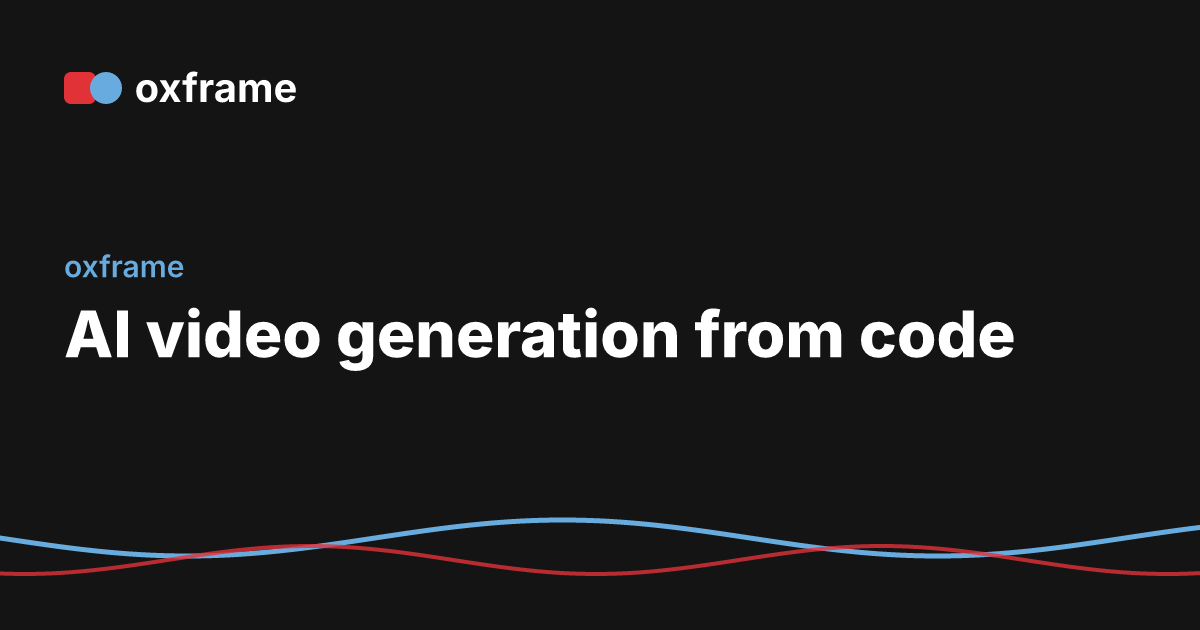
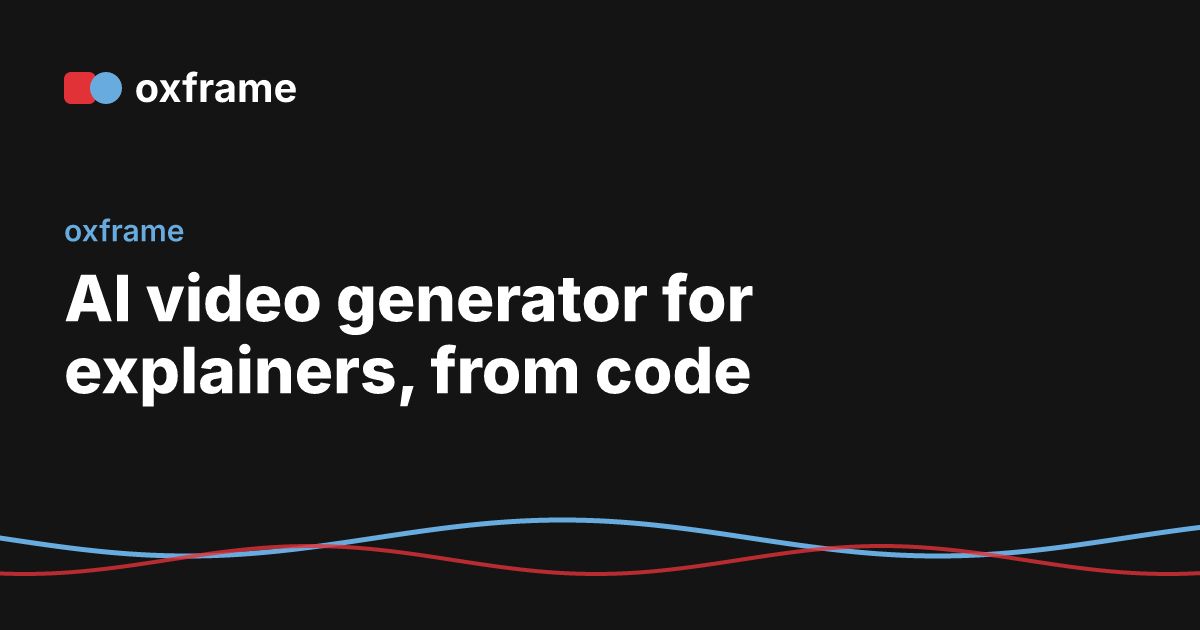
Rewrite /ai-video-from-code for people coming from video models
What the agent + oxframe loop is, how it differs from Sora/Veo-style
generation (a table, with when each is right), the four steps, the eval
numbers from measurements.json, how to start, and an FAQ with FAQPage data.

Changed region(s): [[0.0308, 0.3317, 0.8633, 0.6333]]

diff --git a/apps/site/src/routes/ai-video-from-code/+page.svelte b/apps/site/src/routes/ai-video-from-code/+page.svelte
@@ -1,17 +1,172 @@
 <script lang="ts">
+  import ExampleVideo from '$lib/components/ExampleVideo.svelte';
   import Seo from '$lib/components/Seo.svelte';
+  import { measurements } from '$lib/measurements';
+  import { mediaFor } from '$lib/media';
+
+  const a7 = measurements.a7;
+  const release = mediaFor('release')!;
+
+  const faq = [
+    [
+      'Is oxframe an AI video generator like Sora or Veo?',
+      'No. Those models draw the pixels of a clip from a prompt. With oxframe an AI coding agent writes the video as Rust code, and oxframe renders that code. It suits explainers, product and release videos, charts and code; it does not film people or places.',
+    ],
+    [
+      'Which AI agents can make videos with oxframe?',
+      'Claude Code, Codex, Cursor, GitHub Copilot and other coding agents that can run commands. Every new project carries instructions for them, and the oxframe MCP server gives them the check, single frames and the docs as tools.',
+    ],
+    [
+      'Can I change one word or one color afterwards?',
+      'Yes. The video is code: change the text or the theme color, or ask the agent to, and render again. Nothing else in the video moves.',
+    ],
+    [
+      'How long can a video be?',
+      'As long as the scenes you write. Rendering is local and the same code gives the same file every time, so a 2-minute explainer is rendered like a 10-second one.',
+    ],
+    [
+      'Does it cost anything?',
+      'oxframe is open source under MIT or Apache-2.0 and renders on your own machine. The agent you use is billed by its own provider.',
+    ],
+  ];
 </script>
 
 <Seo
-  title="AI video generation from code — oxframe"
-  description="oxframe does not invent frames from a prompt. An agent writes a Rust scene, oxframe check shows the picture, and the agent fixes what the report names."
+  title="AI video generator for explainers, from code — oxframe"
+  description="Ask a coding agent for a video: it writes the scenes in code, oxframe checks every frame and renders an MP4. Exact text, editable later, the same file every time."
+  jsonld={[
+    {
+      '@type': 'FAQPage',
+      mainEntity: faq.map(([q, a]) => ({
+        '@type': 'Question',
+        name: q,
+        acceptedAnswer: { '@type': 'Answer', text: a },
+      })),
+    },
+  ]}
 />
 
-<h1>AI video generation from code</h1>
-<p>
-  The agent writes the scene. oxframe compiles it, samples the frames and reports problems a person
-  would see: text that overflows, type that overlaps, a shot that sits still. The agent reads
-  <code>report.json</code> and the storyboard, edits, and checks again. Rendering is deterministic,
-  so the file it produces is the file you previewed. The
-  <a href="/docs/agents">agents page</a> is the setup for Claude Code, Cursor and MCP.
-</p>
+<article>
+  <h1>AI video from code</h1>
+  <p class="lead">
+    Ask your coding agent for a video. It writes the scenes as code, oxframe shows it every frame
+    and what is wrong with them, and when the agent has fixed that, oxframe renders the MP4. The
+    text is exactly what you asked for, and a change later is one edit, not a new generation.
+  </p>
+
+  <ExampleVideo media={release} title="Release notes as a video" />
+  <p class="caption">
+    A <a href="/gallery/release">gallery example</a>: release notes, each section in its color, an
+    end card. About 230 lines of Rust you can read and change.
+  </p>
+
+  <h2>Generated pixels or generated code</h2>
+  <p>
+    Video models such as Sora, Veo or Runway draw a clip from a prompt. That is the right tool for
+    footage: people, places, camera moves through a world. For a video made of words, numbers, code
+    and diagrams the result has to be exact, and that is where code wins.
+  </p>
+  <div class="scroll">
+    <table>
+      <thead>
+        <tr><th></th><th>Video model</th><th>Agent + oxframe</th></tr>
+      </thead>
+      <tbody>
+        <tr><td>What is produced</td><td>Pixels</td><td>A scene in Rust, then the MP4</td></tr>
+        <tr
+          ><td>Text, numbers, code</td><td>Drawn, can come out garbled</td><td
+            >Set as type, exactly as written</td
+          ></tr
+        >
+        <tr
+          ><td>Change one word</td><td>Generate again, and the rest changes too</td><td
+            >Edit one line, render again</td
+          ></tr
+        >
+        <tr
+          ><td>Brand colors and fonts</td><td>Described in the prompt</td><td
+            >A theme: tokens and your font files</td
+          ></tr
+        >
+        <tr><td>Same input, same video</td><td>No</td><td>Yes, byte for byte</td></tr>
+        <tr><td>Length</td><td>Short clips</td><td>As long as the scenes</td></tr>
+        <tr
+          ><td>Best for</td><td>Footage, people, nature</td><td
+            >Explainers, releases, charts, code, data</td
+          ></tr
+        >
+      </tbody>
+    </table>
+  </div>
+
+  <h2>How an agent makes the video</h2>
+  <ol class="steps">
+    <li>
+      <strong>You ask.</strong> “Make a 20-second video for our 2.0 release: three new features, the speed-up
+      as a chart, and the install command at the end.”
+    </li>
+    <li>
+      <strong>The agent writes the scenes</strong> in <code>src/main.rs</code>: titles, lists,
+      charts, code and diagrams are ready-made <a href="/docs/guide/components">components</a>, and
+      <code>oxframe add</code> drops in blocks like a feature grid or a terminal.
+    </li>
+    <li>
+      <strong>oxframe checks the frames.</strong> <code>oxframe check</code> plays the video and reports
+      what a viewer would notice — text leaving the frame, overlaps, low contrast, a shot that stands
+      still — with the time, the element and the line of code, plus a storyboard image. The agent fixes
+      and checks again until the report is clean.
+    </li>
+    <li>
+      <strong>You watch and adjust.</strong> <code>oxframe dev</code> opens an editor with the
+      timeline; drag a timing, or ask the agent for a change. <code>oxframe render</code> writes the
+      MP4, and
+      <code>oxframe publish</code> gives a link to share.
+    </li>
+  </ol>
+  <p>
+    On our {a7.prompts} reference prompts, {a7.agent} on oxframe {a7.version} finished
+    {a7.passed} with a clean check, in {a7.meanTurns} turns on average. The prompts and the script are
+    on the <a href="/benchmarks">benchmarks page</a>.
+  </p>
+
+  <h2>Start</h2>
+  <pre><code
+      >{`curl -fsSL https://github.com/oxygenframe/oxframe-cli/releases/latest/download/install.sh | sh
+oxframe init my-video && cd my-video
+# then, in Claude Code, Codex or Cursor: "make a video about …"`}</code
+    ></pre>
+  <p>
+    Rust and ffmpeg are needed on the machine (<a href="/docs/getting-started"
+      >Install and first project</a
+    >); you do not need to know Rust. Setup for each agent is on
+    <a href="/agents">Agents and skills</a>, the tools an agent calls on
+    <a href="/docs/mcp">MCP server</a>. Or try a scene in the
+    <a href="/playground">playground</a> without installing anything.
+  </p>
+
+  <h2>Questions</h2>
+  {#each faq as [q, a] (q)}
+    <h3>{q}</h3>
+    <p>{a}</p>
+  {/each}
+</article>
+
+<style>
+  article {
+    max-width: 760px;
+  }
+  .lead,
+  .caption {
+    color: var(--muted);
+  }
+  article :global(video) {
+    width: 100%;
+    height: auto;
+  }
+  .scroll {
+    overflow-x: auto;
+  }
+  .steps li {
+    margin-bottom: 0.6em;
+  }
+</style>
